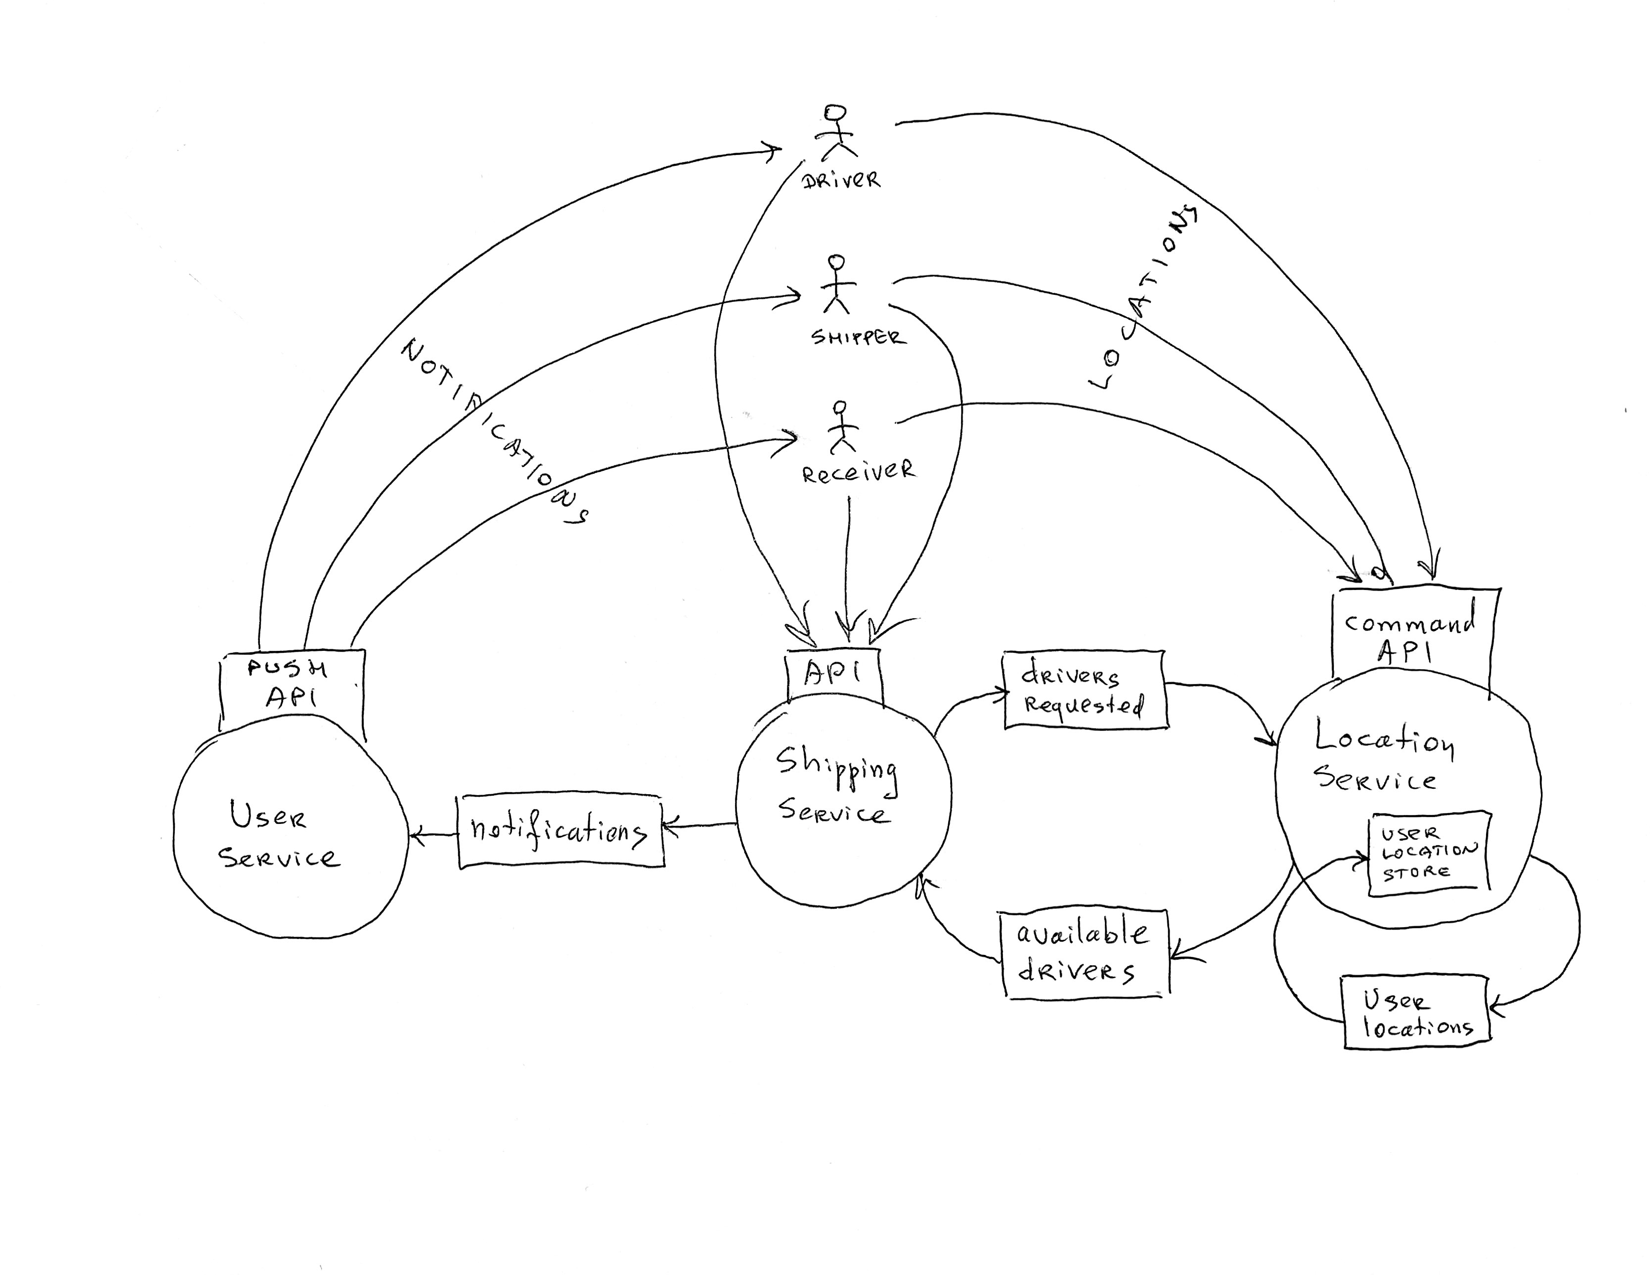
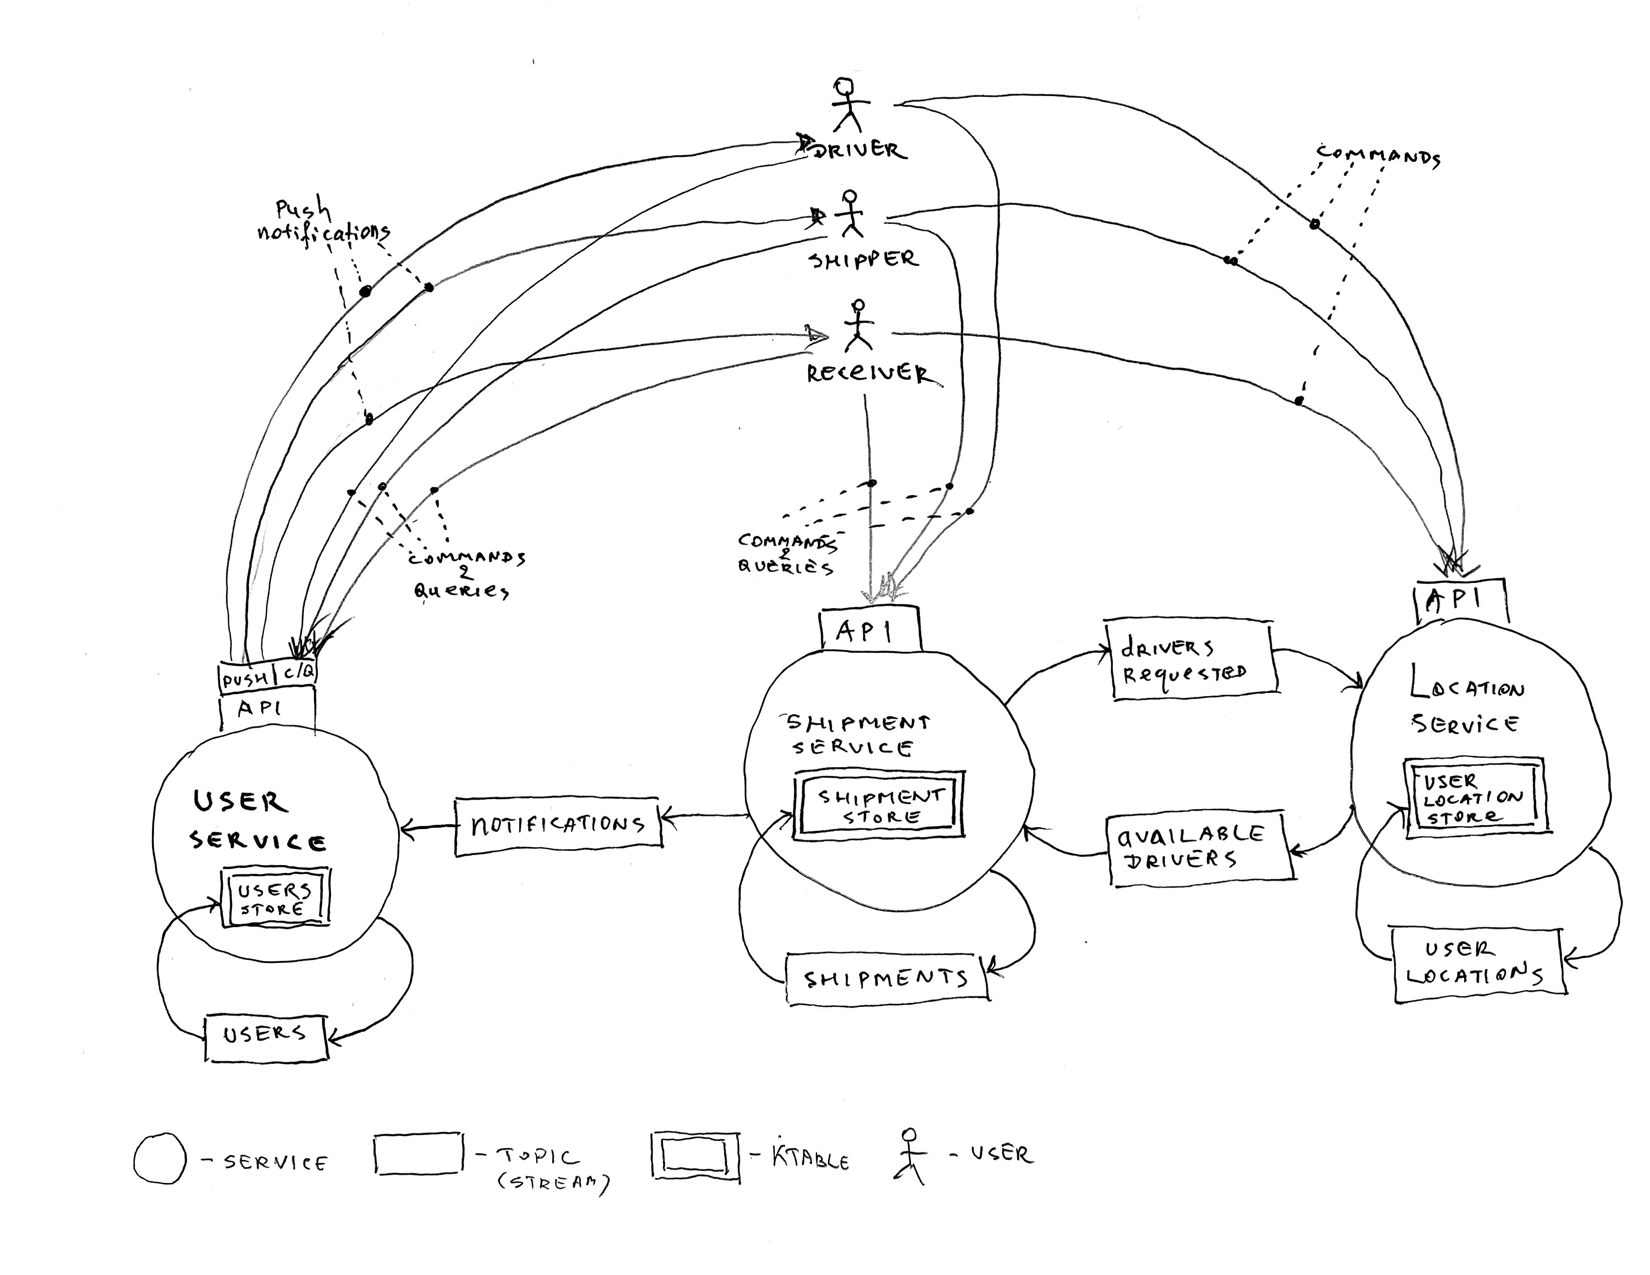
Added missing elements to the picture (and now it's hard to understand)

diff --git a/readme.md b/readme.md
@@ -92,9 +92,7 @@ There are three independent applications that communicate via Kafka and expose R
 - User service
   - responsible for user registration, notification, etc. Not quite thought through yet, just sketched out. At the moment, it's
     supposed to also deal with payments, but I think these need to move to another service: very different responsibilities.
-
-In the picture below, circles are services, rectangles outside circles are streams, the rectangle inside Location Service is local store,
-and the humanoid figures are users.      
+    
 ![](FedUp_Services.png)    
 
 #### How to build and run
